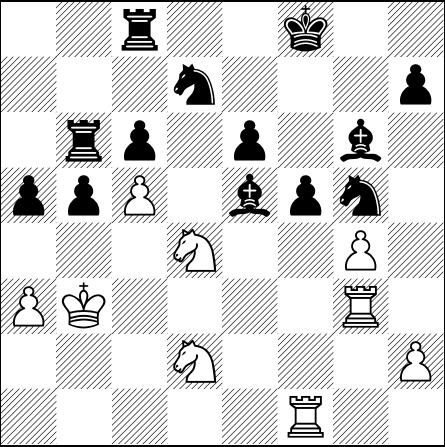
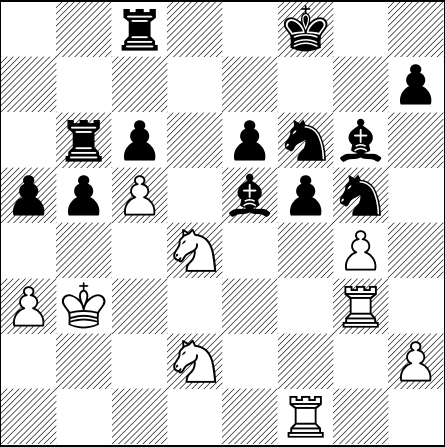
[automated] Regenerate text/pdf for chessboard

Changed region(s): [[0.3798, 0.1454, 0.4966, 0.2327], [0.6427, 0.2617, 0.7303, 0.3781]]

diff --git a/default_filepath.tex b/default_filepath.tex
@@ -13,6 +13,6 @@
 \normalsize%
 \setchessboard{showmover=false}%
 \newgame%
-\fenboard{2r2k2/3n3p/1rp1p1b1/ppP1bpn1/3N2P1/PK4R1/3N3P/5R2 b - - 3 54}%
+\fenboard{2r2k2/7p/1rp1pnb1/ppP1bpn1/3N2P1/PK4R1/3N3P/5R2 w - - 4 55}%
 \chessboard%
 \end{document}
